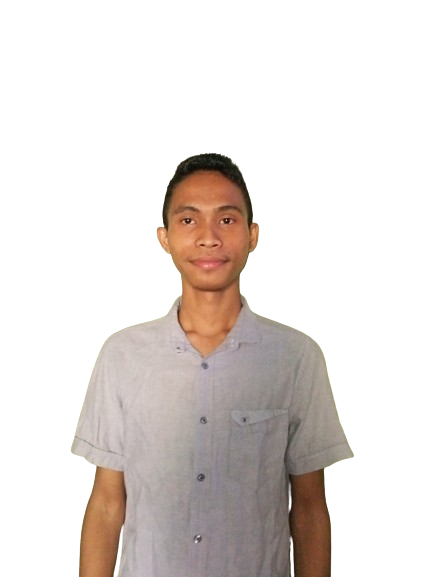
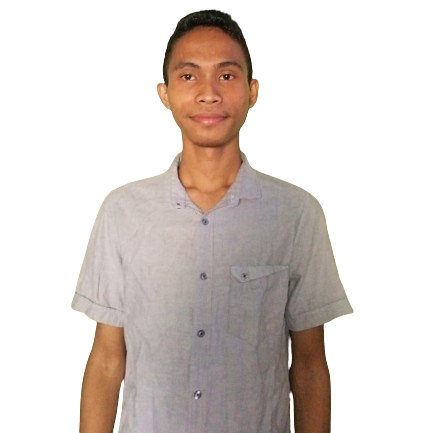
Penambahan Project

diff --git a/style/tes.css b/style/tes.css
@@ -2,7 +2,6 @@
 *{
     padding: 0;
     margin: 0;
-    /* list-style: none;  */
     box-sizing: border-box;
 }
 body{
@@ -70,10 +69,16 @@ nav a:hover{
 nav a.active{
     color: red;
 }
+.menu-toggle{
+    display: none;
+    cursor: pointer;
+}
 .card{
     font-family: 'Passion One', cursive;
     font-weight: bolder;
     text-decoration: none;
+    position: relative;
+    /* background-color: #000000; */
 }
 .card .text1{
     /* display: flex; */
@@ -110,8 +115,11 @@ nav a.active{
 .card img{
     z-index: 1;
     position: absolute;
-    top: -40px;
-    right: 100px;
+    top: 0px;
+    left: 0;
+    /* margin-bottom: 40px; */
+    /* right: 100px; */
+    /* margin-right: 100px; */
     filter: drop-shadow(0 0 1rem #ff0000);
 }
 .namainfo{
@@ -203,7 +211,6 @@ nav a.active{
     border-radius: 6px;
 }
 .box{
-    position: relative;
     display: flex;
     /* background-color: #FBF3D5; */
     justify-content: center;
@@ -681,11 +688,121 @@ footer .sosial-media{
     border-radius: 5px;
     box-shadow: 3px 3px 10px rgba(0, 0, 0, 0.1);
 }
+.navbar.active{
+    display: flex;
+    transform: translateX(100px);
+    opacity: 0;
+    /* left: -100%; */
+    transition: all 1s ease;
+
+}
 @media only screen and (max-width: 600px){
 nav{
     flex-direction: column;
     background-color: rgb(33, 79, 79);
 }
+}
+@media (max-width: 480px) {
+    html{
+        overflow-x: hidden;
+    }
+    .navbar {
+        opacity: 0;
+        position: fixed;
+        transform: translateX(200px);
+        flex-direction: column;
+        width: 100%;
+        background-color: #333;
+    }
+
+    .navbar a {
+        padding: 10px;
+        text-align: center;
+        border-top: 1px solid #444;
+        transition: all 1s ease;
+        color: white;
+    }
+
+    /* .menu-toggle {
+        display: block;
+    } */
+    .menu-toggle {
+        background-color: #f1f1f1;
+        position: absolute;
+        border: none;
+        right: 0;
+        display: block;
+        border-radius: 10px;
+        color: #666;
+        font-family: 'Courier New', Courier, monospace; /* font vintage */
+        font-size: 24px;
+        padding: 6px 10px;
+        margin-right: 20px;
+        cursor: pointer;
+        transition: background-color 0.3s, color 0.3s;
+        z-index: 110;
+      }
+      
+      .menu-toggle:hover {
+        background-color: #ddd; /* efek hover */
+        color: #333; /* efek hover */
+      }
+      
+    .navbar.active {
+        position: fixed;
+        z-index: 100;
+        top: 0;
+        left: 0;
+        opacity: 1;
+        width: 100%;
+        height: 100%;
+        transform: translateX(0);
+        transition: all 1s ease;
+    }
+    .introduction{
+        height: auto;
+        /* width: 100%; */
+        flex-direction: column;
+        padding: 0;
+        margin-top: 50px;
+        /* width: 90vw; */
+        /* background-color: #333; */
+        align-items: center;
+        row-gap: 60px;
+        /* width: 100vw; */
+    }
+    .namainfo p{
+        width: 90vw;
+    }
+    .btn-chat{
+        display: none;
+    }
+    .card img{
+        margin: 0 auto;
+        right: 0;
+        /* margin-left: 20px; */
+        /* background-color: #000000; */
+        aspect-ratio: 1 / 1;
+        width: 90vw;
+    }
+    /* .card{
+        display: flex;
+        justify-content: center;
+        flex-direction: column;
+        align-items: center;
+    } */
+    .card{
+        /* background-color: #4a2c2a; */
+        width: 100vw;
+    }
+    .card .text1{
+        margin: 0 auto;
+        padding: 0;
+    }
+    
+    .box{
+        flex-direction: column;
+    }
 }
 
 

diff --git a/index.html b/index.html
@@ -20,6 +20,7 @@
       </nav>
       <!-- <button type="submit" class="btn-chat">Chat</button> -->
       <a href="https://github.com/Thoga12"><div><i class="bi bi-github btn-chat"></i></div></a>
+      <button class="menu-toggle" id="menu-toggle">☰</button>
     </header>
     <main>
 
@@ -136,7 +137,6 @@
               <div class="content-project">
                 <h1>Sistem Informasi Instansi BPMP Sultra</h1>
                 <p>
-
                   Proyek ini menciptakan platform web yang menyediakan akses publik untuk informasi BPMP Sultra dan antarmuka admin untuk manajemen konten. Dengan desain yang terintegrasi, sistem ini memungkinkan penggunaan yang efisien oleh masyarakat dan staf internal
                 </p>
               </div>
@@ -151,12 +151,18 @@
             </div>
           </div>
           <div class="img">
-            <img src="images/freya.jpeg" alt="">
-            <h1>Judul Project</h1>
+            <img src="images/halal.png" alt="">
+            <div class="content-project">
+              <h1>HalalLiving</h1>
+              <p>Sebuah Website E-Learning yang berfokus pada pendidikan agama islam, serta platform untuk memermudah orang dalam melakukan zakat dan donasi</p>
+            </div>
           </div>
           <div class="img">
-            <img src="images/Lily.jpeg" alt="">
-            <h1>Judul Project</h1>
+            <img src="images/persebaranWisata.png" alt="">
+            <div class="content-project">
+              <h1>Peta Persebaran Perbelanjaan Sultra</h1>
+              <p>Website Untuk Menglola Tempat Perbelanjaan Daerah Sultra, Dimana Kita Bisa Melakukan Crud untuk mengatur lokasi tempat perbelajaan, kita juga dapat melihat data lokasinya</p>
+            </div>
           </div>
           <!-- <img src="Lily.jpeg" alt="">
           <img src="freya.jpeg" alt="">

diff --git a/about/aboutMe.html b/about/aboutMe.html
@@ -5,6 +5,8 @@
     <meta name="viewport" content="width=device-width, initial-scale=1.0">
     <title>About Me</title>
     <link rel="stylesheet" href="../style/tes.css" />
+
+    
     <link rel="stylesheet" href="https://cdn.jsdelivr.net/npm/bootstrap-icons@1.11.3/font/bootstrap-icons.min.css">
 
 

diff --git a/style/script.js b/style/script.js
@@ -12,3 +12,11 @@ navLinks.forEach(link => {
         link.classList.add('active');
     }
 });
+
+document.getElementById('menu-toggle').addEventListener('click', function() {
+    const navbar = document.querySelector('.navbar');
+    navbar.classList.toggle('active');
+});
+
+
+
